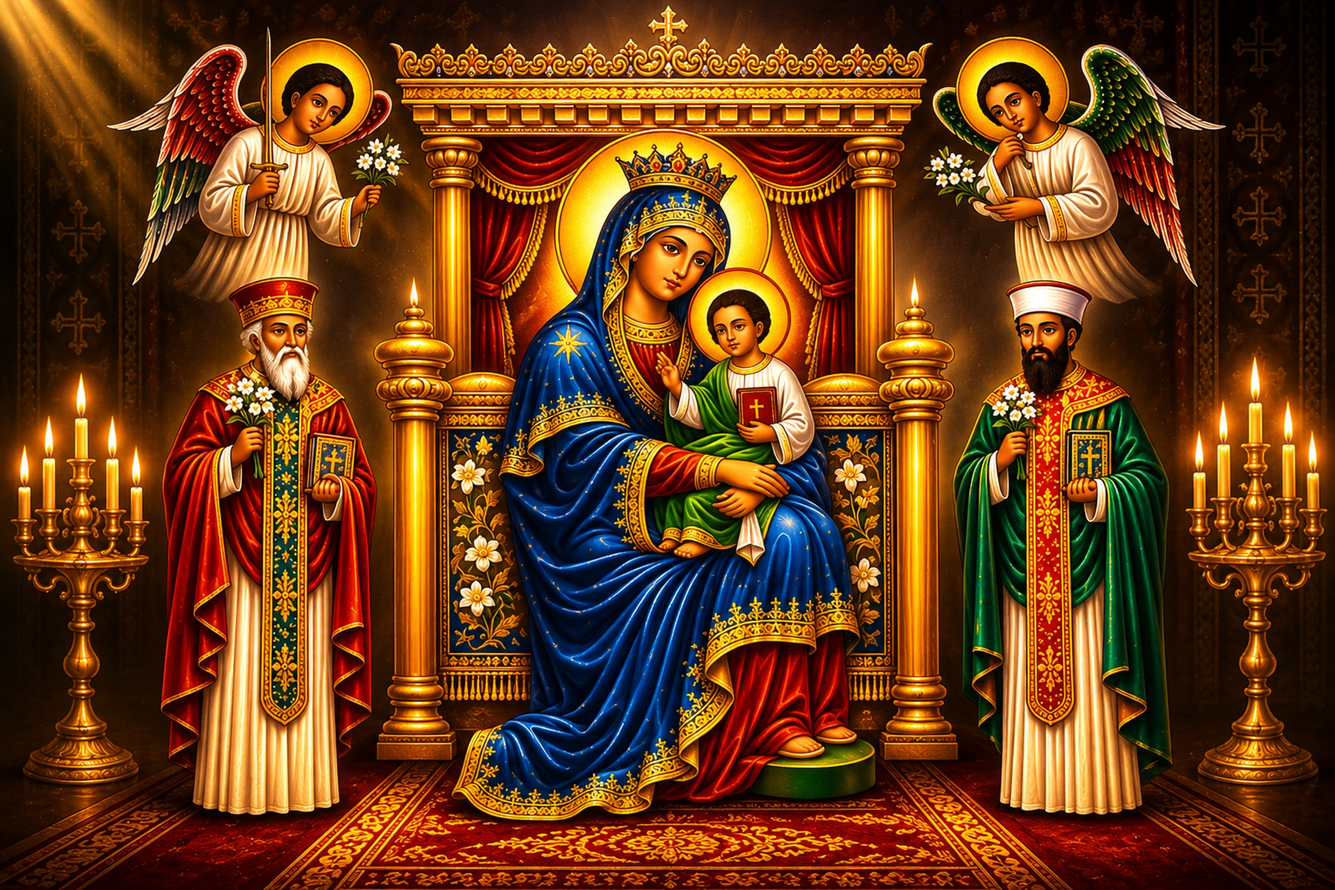
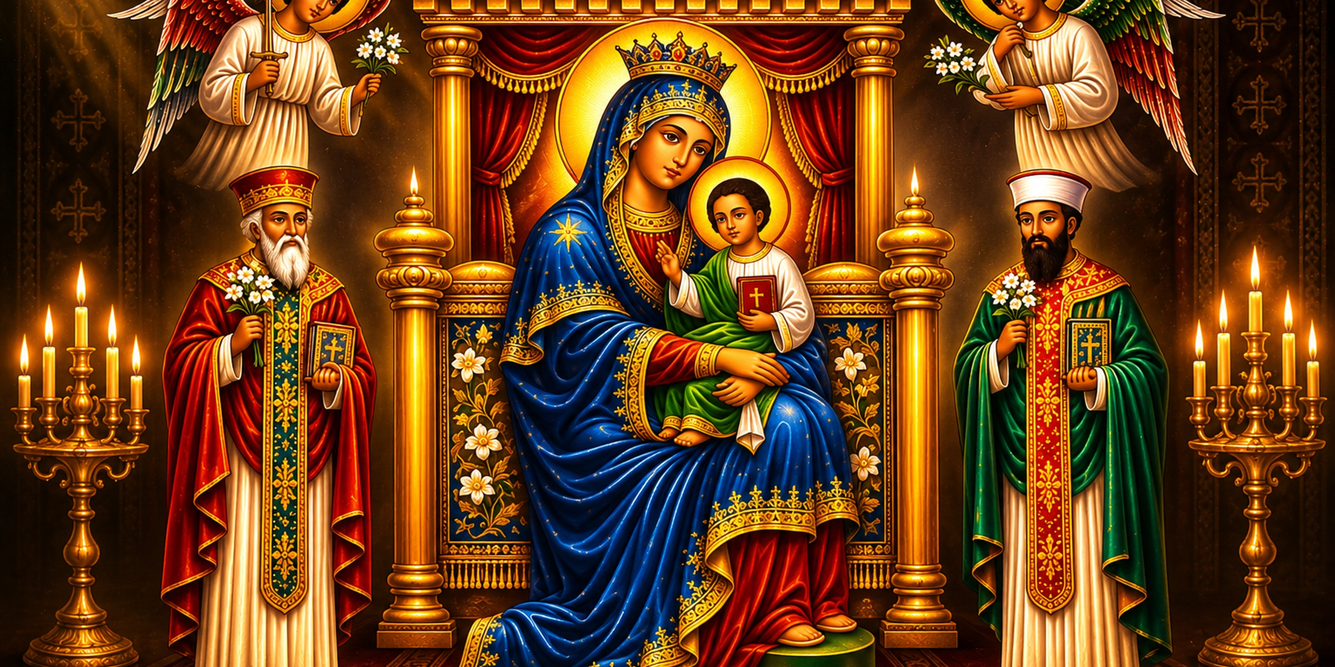
Stabilize hero framing across devices with shared HeroMedia.
Use consistent object-contain plus edge blur so sacred heroes no longer crop differently per viewport.

diff --git a/src/components/layout/PageHero.tsx b/src/components/layout/PageHero.tsx
@@ -1,5 +1,5 @@
-import Image from "next/image";
 import { getTranslations } from "next-intl/server";
+import { HeroMedia } from "@/components/layout/HeroMedia";
 import { SectionReveal } from "@/components/effects/SectionReveal";
 import { SacredEyebrow } from "@/components/ui/SacredEyebrow";
 import { cn } from "@/lib/utils";
@@ -8,13 +8,9 @@ interface PageHeroProps {
   title: string;
   subtitle?: string;
   backgroundSrc?: string;
-  /** Which part of the background image to keep in frame (cover mode) */
+  /** Kept for API compatibility; framing is always full-image + edge fill */
   backgroundPosition?: "top" | "center" | "bottom";
-  /**
-   * contain = favor full sacred art; on desktop the hero starts under the nav
-   * and shows the whole image (edge-matched blur fills any gaps).
-   * cover = fill the media area (editorial photos).
-   */
+  /** Kept for API compatibility; all heroes use consistent contain framing */
   imageFit?: "cover" | "contain";
   /** Taller cinematic About-style hero */
   variant?: "default" | "cinematic";
@@ -24,13 +20,10 @@ export async function PageHero({
   title,
   subtitle,
   backgroundSrc,
-  backgroundPosition = "center",
-  imageFit = "cover",
   variant = "default",
 }: PageHeroProps) {
   const t = await getTranslations("site");
   const cinematic = variant === "cinematic";
-  const contain = imageFit === "contain";
 
   return (
     <section
@@ -42,42 +35,14 @@ export async function PageHero({
       )}
     >
       {backgroundSrc && (
-        <div className="absolute inset-0 xl:top-[var(--site-nav-h)]">
-          {/* Edge-matched fill behind the hero image */}
-          <Image
-            src={backgroundSrc}
-            alt=""
-            fill
-            className="scale-[1.25] object-cover opacity-80 blur-3xl"
-            sizes="100vw"
-            priority
-            quality={60}
-            aria-hidden
-          />
-          <Image
-            src={backgroundSrc}
-            alt=""
-            fill
-            className={cn(
-              cinematic ? "opacity-95" : "opacity-90",
-              // Fill edge-to-edge (no side gaps); desktop media still starts under the nav
-              "object-cover",
-              contain
-                ? "object-[center_28%] sm:object-[center_32%] xl:object-center"
-                : [
-                    backgroundPosition === "top" && "object-top",
-                    backgroundPosition === "center" && "object-center",
-                    backgroundPosition === "bottom" && "object-bottom",
-                  ]
-            )}
-            sizes="100vw"
-            priority
-            quality={cinematic ? 90 : 85}
-          />
-        </div>
+        <HeroMedia
+          src={backgroundSrc}
+          priority
+          quality={cinematic ? 90 : 85}
+          opacity={cinematic ? 0.95 : 0.92}
+        />
       )}
 
-      {/* Soft luminous overlays — keep art bright */}
       <div
         className="absolute inset-0 bg-gradient-to-r from-black/40 via-black/15 to-transparent xl:top-[var(--site-nav-h)] md:from-black/35 md:via-transparent"
         aria-hidden

diff --git a/src/components/sections/HeroSectionClient.tsx b/src/components/sections/HeroSectionClient.tsx
@@ -1,10 +1,10 @@
 "use client";
 
-import Image from "next/image";
 import { useTranslations } from "next-intl";
 import { motion } from "framer-motion";
 import { editorialImages } from "@/data/images";
 import type { ChurchEvent } from "@/data/events";
+import { HeroMedia } from "@/components/layout/HeroMedia";
 import { Navbar } from "@/components/layout/Navbar";
 import { Link } from "@/i18n/navigation";
 import { MeskelCross } from "@/components/effects/MeskelCross";
@@ -26,28 +26,15 @@ export function HeroSectionClient({ upcomingEvent }: HeroSectionClientProps) {
     <section className="relative min-h-[100dvh] overflow-hidden bg-[#1a1510]">
       <Navbar transparent />
 
-      <div className="absolute inset-0 xl:top-[var(--site-nav-h)]">
-        <Image
-          src={editorialImages.hero}
-          alt=""
-          fill
-          priority
-          quality={60}
-          className="scale-[1.25] object-cover opacity-80 blur-3xl"
-          sizes="100vw"
-          aria-hidden
-        />
-        <Image
+      <div className="absolute inset-0">
+        <HeroMedia
           src={editorialImages.hero}
           alt={tHero("imageAlt")}
-          fill
           priority
           quality={92}
-          className="object-cover object-[center_22%] sm:object-[center_28%] xl:object-center"
-          sizes="100vw"
         />
         <div
-          className="absolute inset-0 bg-gradient-to-r from-black/45 via-black/15 to-transparent md:from-black/35 md:via-transparent"
+          className="absolute inset-0 bg-gradient-to-r from-black/45 via-black/15 to-transparent xl:top-[var(--site-nav-h)] md:from-black/35 md:via-transparent"
           aria-hidden
         />
         <div
@@ -55,7 +42,7 @@ export function HeroSectionClient({ upcomingEvent }: HeroSectionClientProps) {
           aria-hidden
         />
         <div
-          className="absolute inset-0 bg-[radial-gradient(ellipse_at_65%_40%,rgba(255,236,180,0.1),transparent_50%)]"
+          className="absolute inset-0 bg-[radial-gradient(ellipse_at_65%_40%,rgba(255,236,180,0.1),transparent_50%)] xl:top-[var(--site-nav-h)]"
           aria-hidden
         />
       </div>

diff --git a/src/components/sections/GalleryPageHero.tsx b/src/components/sections/GalleryPageHero.tsx
@@ -1,9 +1,9 @@
 "use client";
 
-import Image from "next/image";
 import { useCallback, useEffect, useState } from "react";
 import { AnimatePresence, motion } from "framer-motion";
 import { useTranslations } from "next-intl";
+import { HeroMedia } from "@/components/layout/HeroMedia";
 import { SectionReveal } from "@/components/effects/SectionReveal";
 import { SacredEyebrow } from "@/components/ui/SacredEyebrow";
 import { usePrefersReducedMotion } from "@/lib/motion";
@@ -70,7 +70,7 @@ export function GalleryPageHero({
       onMouseEnter={() => setPaused(true)}
       onMouseLeave={() => setPaused(false)}
     >
-      <div className="absolute inset-0 xl:top-[var(--site-nav-h)]" aria-hidden>
+      <div className="absolute inset-0" aria-hidden>
         <AnimatePresence mode="wait">
           <motion.div
             key={active.id}
@@ -80,24 +80,7 @@ export function GalleryPageHero({
             transition={{ duration: 1, ease: [0.22, 1, 0.36, 1] }}
             className="absolute inset-0"
           >
-            {/* Edge-matched blur + full-bleed cover (no side gaps) */}
-            <Image
-              src={active.src}
-              alt=""
-              fill
-              priority={index === 0}
-              className="scale-[1.25] object-cover opacity-80 blur-3xl"
-              sizes="100vw"
-              aria-hidden
-            />
-            <Image
-              src={active.src}
-              alt=""
-              fill
-              priority={index === 0}
-              className="object-cover object-center opacity-95"
-              sizes="100vw"
-            />
+            <HeroMedia src={active.src} priority={index === 0} quality={90} />
           </motion.div>
         </AnimatePresence>
       </div>

diff --git a/src/components/layout/HeroMedia.tsx b/src/components/layout/HeroMedia.tsx
@@ -1,0 +1,52 @@
+import Image from "next/image";
+import { cn } from "@/lib/utils";
+
+interface HeroMediaProps {
+  src: string;
+  alt?: string;
+  /** Soften the sharp layer slightly */
+  opacity?: number;
+  priority?: boolean;
+  quality?: number;
+  className?: string;
+}
+
+/**
+ * Consistent hero framing across devices.
+ * Blurred ambient fill covers the hero; sharp art uses object-contain
+ * so the full composition is identical on phone, tablet, and desktop
+ * (never crops differently per viewport). Desktop starts under the nav.
+ */
+export function HeroMedia({
+  src,
+  alt = "",
+  opacity = 0.95,
+  priority = false,
+  quality = 90,
+  className,
+}: HeroMediaProps) {
+  return (
+    <div className={cn("absolute inset-0 xl:top-[var(--site-nav-h)]", className)}>
+      <Image
+        src={src}
+        alt=""
+        fill
+        priority={priority}
+        quality={55}
+        className="scale-[1.35] object-cover opacity-90 blur-3xl"
+        sizes="100vw"
+        aria-hidden
+      />
+      <Image
+        src={src}
+        alt={alt}
+        fill
+        priority={priority}
+        quality={quality}
+        className="object-contain object-center"
+        style={{ opacity }}
+        sizes="100vw"
+      />
+    </div>
+  );
+}

diff --git a/src/data/images.ts b/src/data/images.ts
@@ -2,8 +2,8 @@
  * Tiered image manifest — replace placeholders in /public/images/editorial/
  * See public/images/ASSETS.md for the full upload checklist.
  *
- * Page heroes use /images/heroes/* staged frames (full art, 2:1) so the
- * complete image shows across desktop / tablet / mobile.
+ * Page heroes use /images/heroes/* staged 2:1 frames. HeroMedia shows them
+ * with object-contain + edge blur so framing stays identical on every device.
  */
 
 export const editorialImages = {
